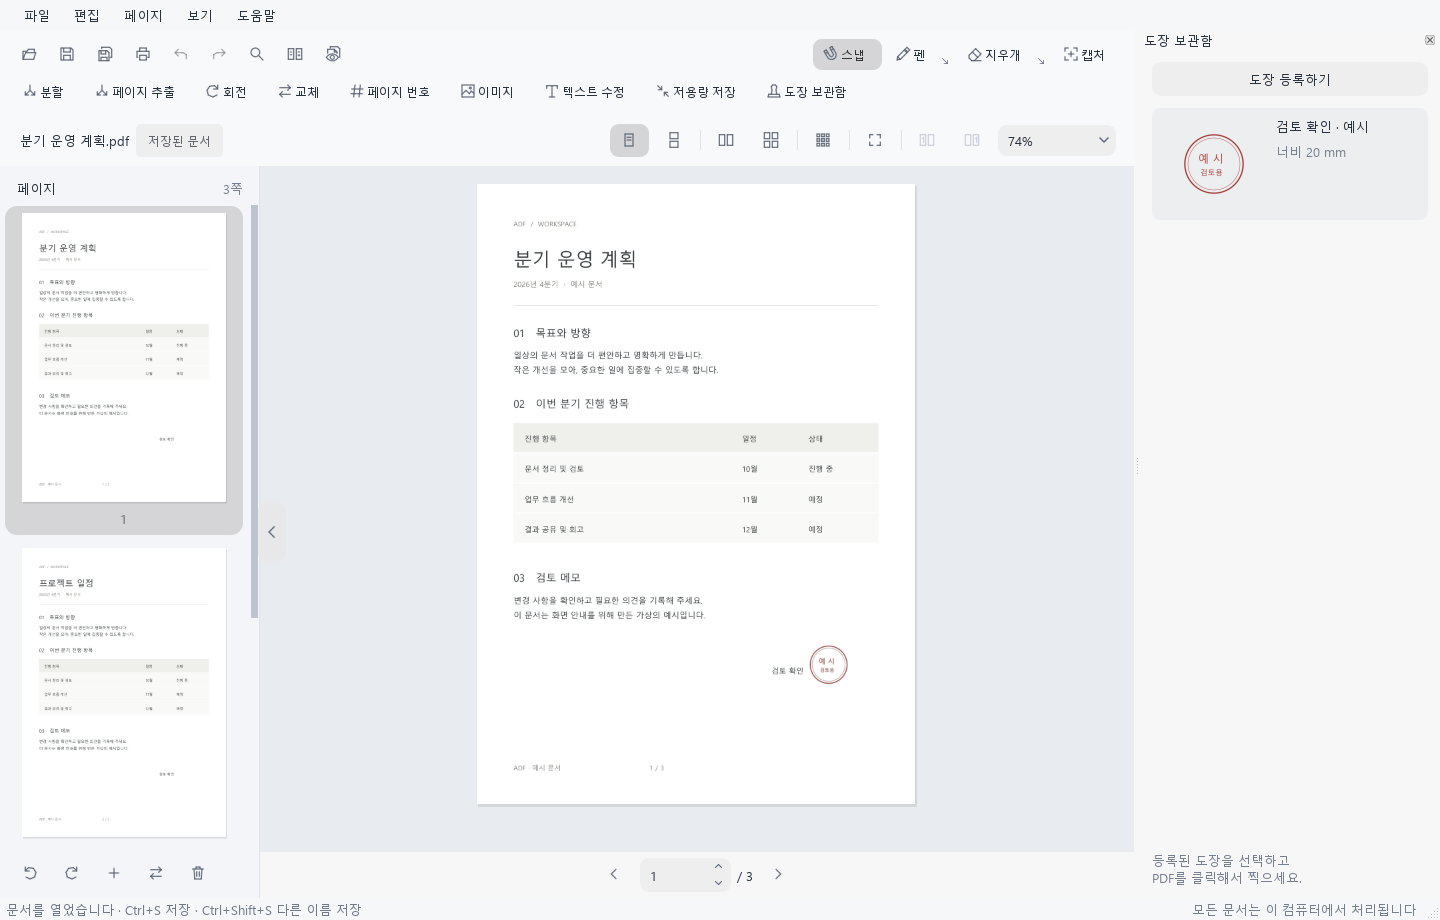
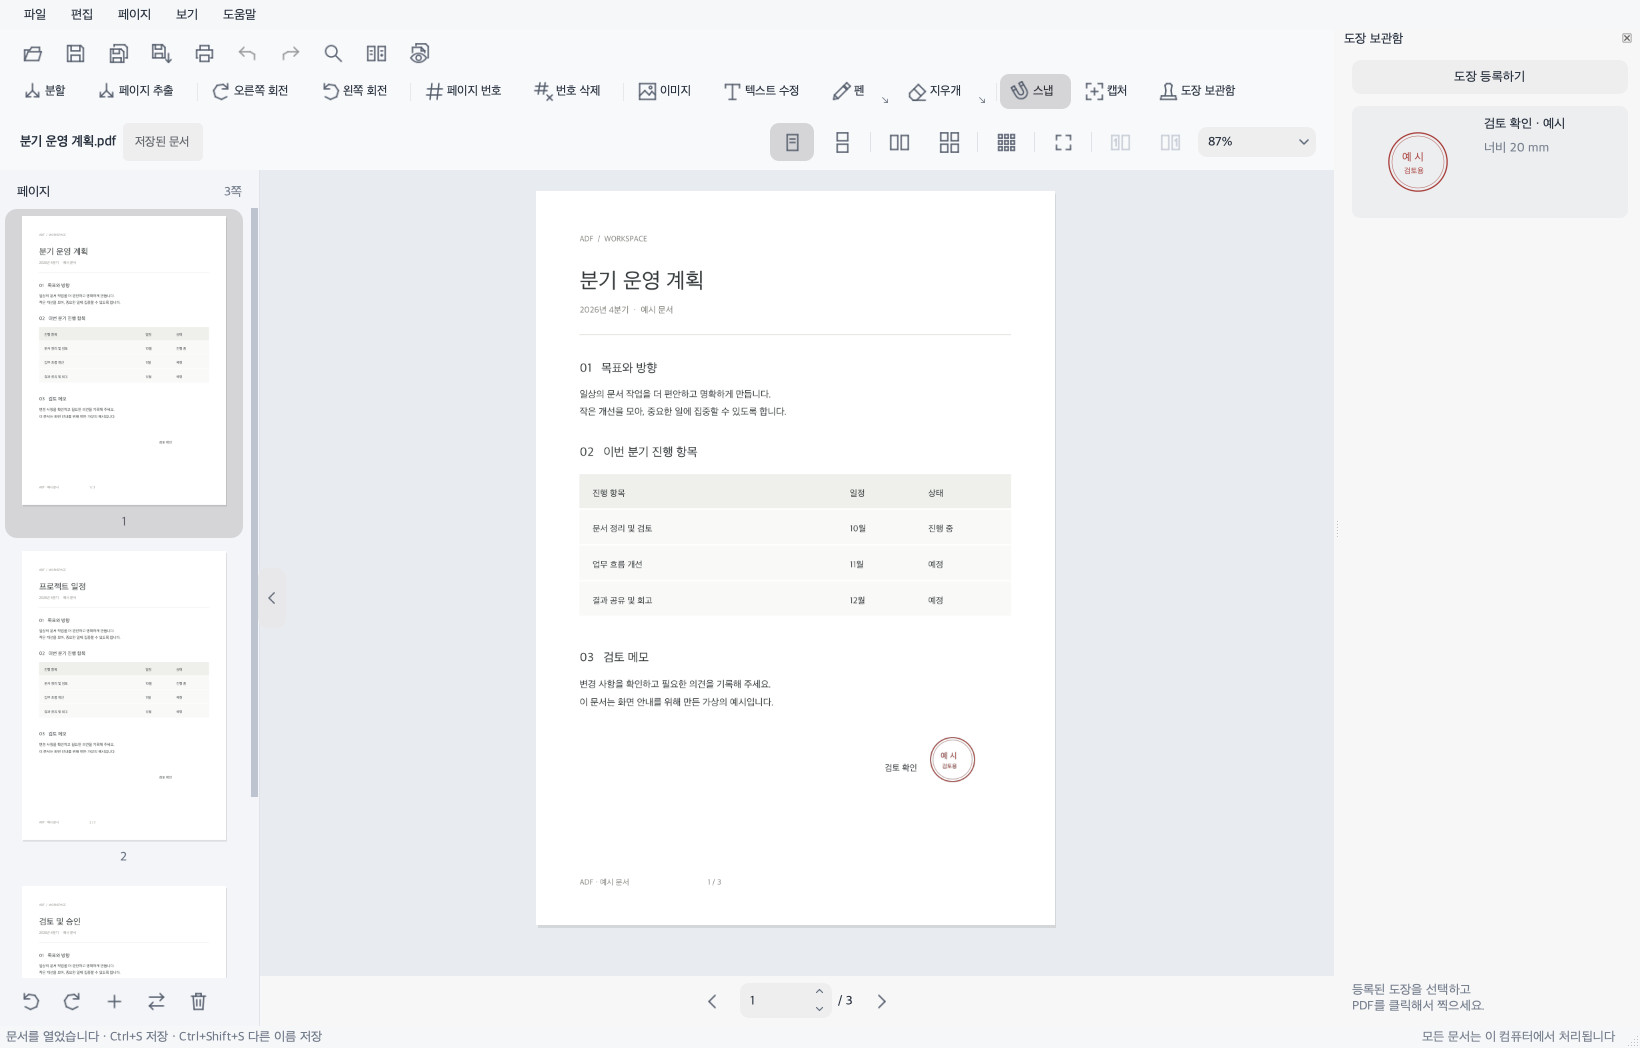
Capture the site screenshot with the regrouped toolbar
The homepage screenshot still showed the 0.3.24 toolbar. Recapture it on
macOS: the example document now uses the platform's Korean system font
through resolve_font_file instead of a fixed Windows path, and the window
is 1640x1048 so the toolbar keeps two rows beside the stamp library.
Update the image dimensions on the homepage to match.

diff --git a/site/index.html b/site/index.html
@@ -71,8 +71,8 @@
         <figure class="app-preview">
           <img
             src="/assets/workspace.png"
-            width="1440"
-            height="920"
+            width="1640"
+            height="1048"
             alt="ADF에서 예시 PDF와 페이지 미리보기, 로컬 도장 보관함을 함께 연 실제 앱 화면"
             fetchpriority="high"
           />

diff --git a/scripts/capture-site-preview.py b/scripts/capture-site-preview.py
@@ -15,13 +15,19 @@ from PySide6.QtTest import QTest
 from PySide6.QtWidgets import QApplication
 from adf.app import MainWindow
 from adf.stamps import StampLibrary
+from adf.system_fonts import resolve_font_file
 from adf.theme import apply_theme
 
 
 def capture():
     app = QApplication([])
-    for filename in ('segoeui.ttf', 'malgun.ttf'):
-        QFontDatabase.addApplicationFont(str(Path('C:/Windows/Fonts') / filename))
+    if sys.platform == 'win32':
+        for filename in ('segoeui.ttf', 'malgun.ttf'):
+            QFontDatabase.addApplicationFont(str(Path('C:/Windows/Fonts') / filename))
+    # The example document uses the same Korean system font as the interface.
+    korean = resolve_font_file('Malgun Gothic' if sys.platform == 'win32' else 'Apple SD Gothic Neo')
+    if not korean:
+        raise RuntimeError('No Korean system font was found for the example document')
     apply_theme(app)
     with tempfile.TemporaryDirectory(prefix='adf-site-preview-') as temp:
         folder = Path(temp)
@@ -29,7 +35,7 @@ def capture():
         with pymupdf.open() as doc:
             for index in range(3):
                 page = doc.new_page(width=595, height=842)
-                page.insert_font(fontname='ko', fontfile='C:/Windows/Fonts/malgun.ttf')
+                page.insert_font(fontname='ko', fontfile=korean)
                 def label(x, y, value, size=11, color=(.2, .22, .23)):
                     page.insert_text((x, y), value, fontname='ko', fontsize=size, color=color)
                 label(50, 58, 'ADF  /  WORKSPACE', 9, (.5, .51, .48))
@@ -54,7 +60,7 @@ def capture():
             doc.save(path)
         with pymupdf.open() as seal:
             page = seal.new_page(width=120, height=120)
-            page.insert_font(fontname='ko', fontfile='C:/Windows/Fonts/malgun.ttf')
+            page.insert_font(fontname='ko', fontfile=korean)
             page.draw_circle((60, 60), 46, color=(.65, .22, .20), width=2)
             page.draw_circle((60, 60), 41, color=(.65, .22, .20), width=.6)
             page.insert_text((35, 58), '예 시', fontname='ko', fontsize=17, color=(.65, .22, .20))
@@ -64,7 +70,8 @@ def capture():
         window.settings = QSettings(str(folder / 'settings.ini'), QSettings.Format.IniFormat)
         window.stamp_library = StampLibrary(folder / 'stamps.sqlite3')
         window.stamp_library.add('검토 확인 · 예시', stamp_image, 20)
-        window.resize(1440, 920)
+        # Wide enough for the toolbar to keep two rows beside the stamp library.
+        window.resize(1640, 1048)
         window.show()
         window.open_path(path)
         window.set_view_mode('single')
